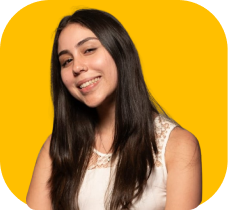
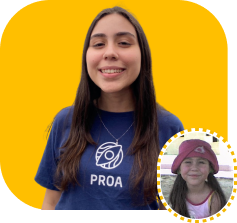
adjusting the about us
changing the images, and adjusting the footer and its responsiveness

diff --git a/Views/src/components/Footer/Footer.css b/Views/src/components/Footer/Footer.css
@@ -1,13 +1,23 @@
+.footer {
+  display: flex;
+  justify-content: center;
+  align-items: center;
+  flex-direction: column;
+  border-top: 1.5rem solid #AD4AFF;
+  margin-bottom: 1rem;
+}
+
 .footer-up{
     display: flex;
     align-items: center;
     flex-direction: row;
-    margin-left: 90px;
+    margin-left: 50px;
     justify-content: center;
     gap: 60px;
     font-family: 'Poppins';
     font-weight: bold;
     font-size: 1rem;
+    margin-top: 1.3rem;
 }
 
 .footer-up p{
@@ -33,79 +43,104 @@
 
  .footer-down{
   display: flex;
-  flex-direction: row;
   gap: 25rem;
  }
 
+ @media screen and (max-width: 1110px) {
+  .footer-hr hr {
+   width: 50rem;
+   margin-left: 0px;
+ }
+ .footer-up img{
+width: 140px;
+}
+.footer-up p{
+  margin-top: 1.3px;
+}
+.footer-p{
+ margin-left: 0px;
+}
+.footer-icons{
+  gap: 15px;
+ }
+ }
 
+@media screen and (max-width: 970px) {
+  .footer-hr hr {
+   width: 40rem;
+ }
+ .footer-up {
+  gap: 30px;
+ }
+ .footer-up img{
+width: 120px;
+}
+.footer-up p{
+  margin-top: 1px;
+}
+.footer-icons{
+  gap: 10px;
+ }
+ .footer-p p {
+  font-size: 0.9rem;
+ }
+ .footer-down{
+  gap: 12rem;
+ }
+ }
 
+ @media screen and (max-width: 714px) {
+  .footer-hr hr {
+   display: none;
+ }
+ .footer {
+  justify-content: space-around;
+  flex-direction: row;
+  align-items: flex-start;
+ }
+ .footer-up img {
+  display: none;
+ }
+ .footer-up {
+  flex-direction: column;
+  gap: 10px;
+ }
+ .footer-down{
+  margin-top: 1rem;
+  flex-direction: column-reverse;
+  gap: 0rem;
+ }
+ .footer-down p {
+  max-width: 70%;
+ }
+ }
 
-
-
-
-
-
-
-
-
-
-
- @media screen and (max-width: 900px) {
+ @media screen and (max-width:496px) {
   .footer {
-    display: flex;
+    gap: 40px;
+   }
+   .footer-down p {
+    max-width: 80%;
+    margin-top: 1rem;
+   }
+ }
+
+ @media screen and (max-width:496px) {
+  .footer {
+    gap: 0px;
+    justify-content: center;
     flex-direction: column;
-  }
-
-  .footer-up a img {
-    display: none;
-  }
-
-  .footer-up a {
-    font-size: 1.5rem;
-  }
-
-  .footer-up {
-    display: flex;
-    flex-direction: column;
-    gap: 0;
-    margin-left: 0;
-  }
-
-  .footer-up p{
-    margin-top: 10px;
-}
-
-  .footer-p{
-    flex-wrap: wrap-reverse;
-  }
-
-  .footer-p p{
-    font-size: 1rem;
-    padding: 20px;
-  }
-}
-
-
-@media screen and (max-width: 768px) {
-    .footer {
-      display: flex;
-      flex-direction: column;
-    }
-
-    .footer-up a img {
-      display: none;
-    }
-
-    .footer-up {
-      display: flex;
-      flex-direction: column;
-      gap: 0;
-      margin-left: 0;
-    }
-
-    .footer-up p{
-      margin-top: 10px;
-  }
-  }
-  
-  
+    align-items: center;
+   }
+   .footer-up {
+    margin: 0px;
+   }
+   .footer-down {
+    justify-content: center;
+    align-items: center;
+   }
+   .footer-down p {
+    max-width: 100%;
+    font-size: 0.7rem;
+   }
+ }

diff --git a/Views/src/Pages/AboutUs/About.jsx b/Views/src/Pages/AboutUs/About.jsx
@@ -1,3 +1,4 @@
+import Footer from "../../components/Footer/Footer";
 import Header from "../../components/Header/Header";
 import "./About.css";
 import CardsTeam from "./components/CardsTeam/CardsTeam";
@@ -6,7 +7,7 @@ const About = () => {
   return (
     <body>
       <Header />
-      <section>
+      <section className="container-about">
         <article className="container-mvv">
           <h2 className="titles-about">Missão Visão e Valores</h2>
           <div className="MVV">
@@ -75,6 +76,7 @@ const About = () => {
         </div>
         </section>
       </section>
+      <Footer />
     </body>
   );
 };

diff --git a/Views/src/Pages/AboutUs/components/CardsTeam/CardsTeam.css b/Views/src/Pages/AboutUs/components/CardsTeam/CardsTeam.css
@@ -4,13 +4,14 @@
     gap: 25px;
 }
 .cards-team img {
-    width: 170px;
+    width: 190px;
 }
 .member-data {
     gap: 10px;
 }
 .member-data h3 {
     font-size: 1.8rem;
+    font-weight: 600;
 }
 .icons-contact-team {
     display: flex;
@@ -28,7 +29,7 @@
 
 @media screen and (max-width: 430px){
     .cards-team img {
-        width: 150px;
+        width: 170px;
     }
     .member-data {
         gap: 10px;

diff --git a/Views/src/components/Footer/Footer.jsx b/Views/src/components/Footer/Footer.jsx
@@ -12,7 +12,6 @@ function Footer() {
                 <p>Login</p>
                 <p>Atendimento</p>
                 <p>SAC</p>
-                
             </div>
             <div className="footer-hr">
             <hr />

diff --git a/Views/src/Pages/AboutUs/About.css b/Views/src/Pages/AboutUs/About.css
@@ -56,6 +56,10 @@
     width: 45%;
 }
 
+.container-about {
+    margin-bottom: 2rem;
+}
+
 @media screen and (max-width: 960px){
     .container-mvv img {
         width: 90px;
